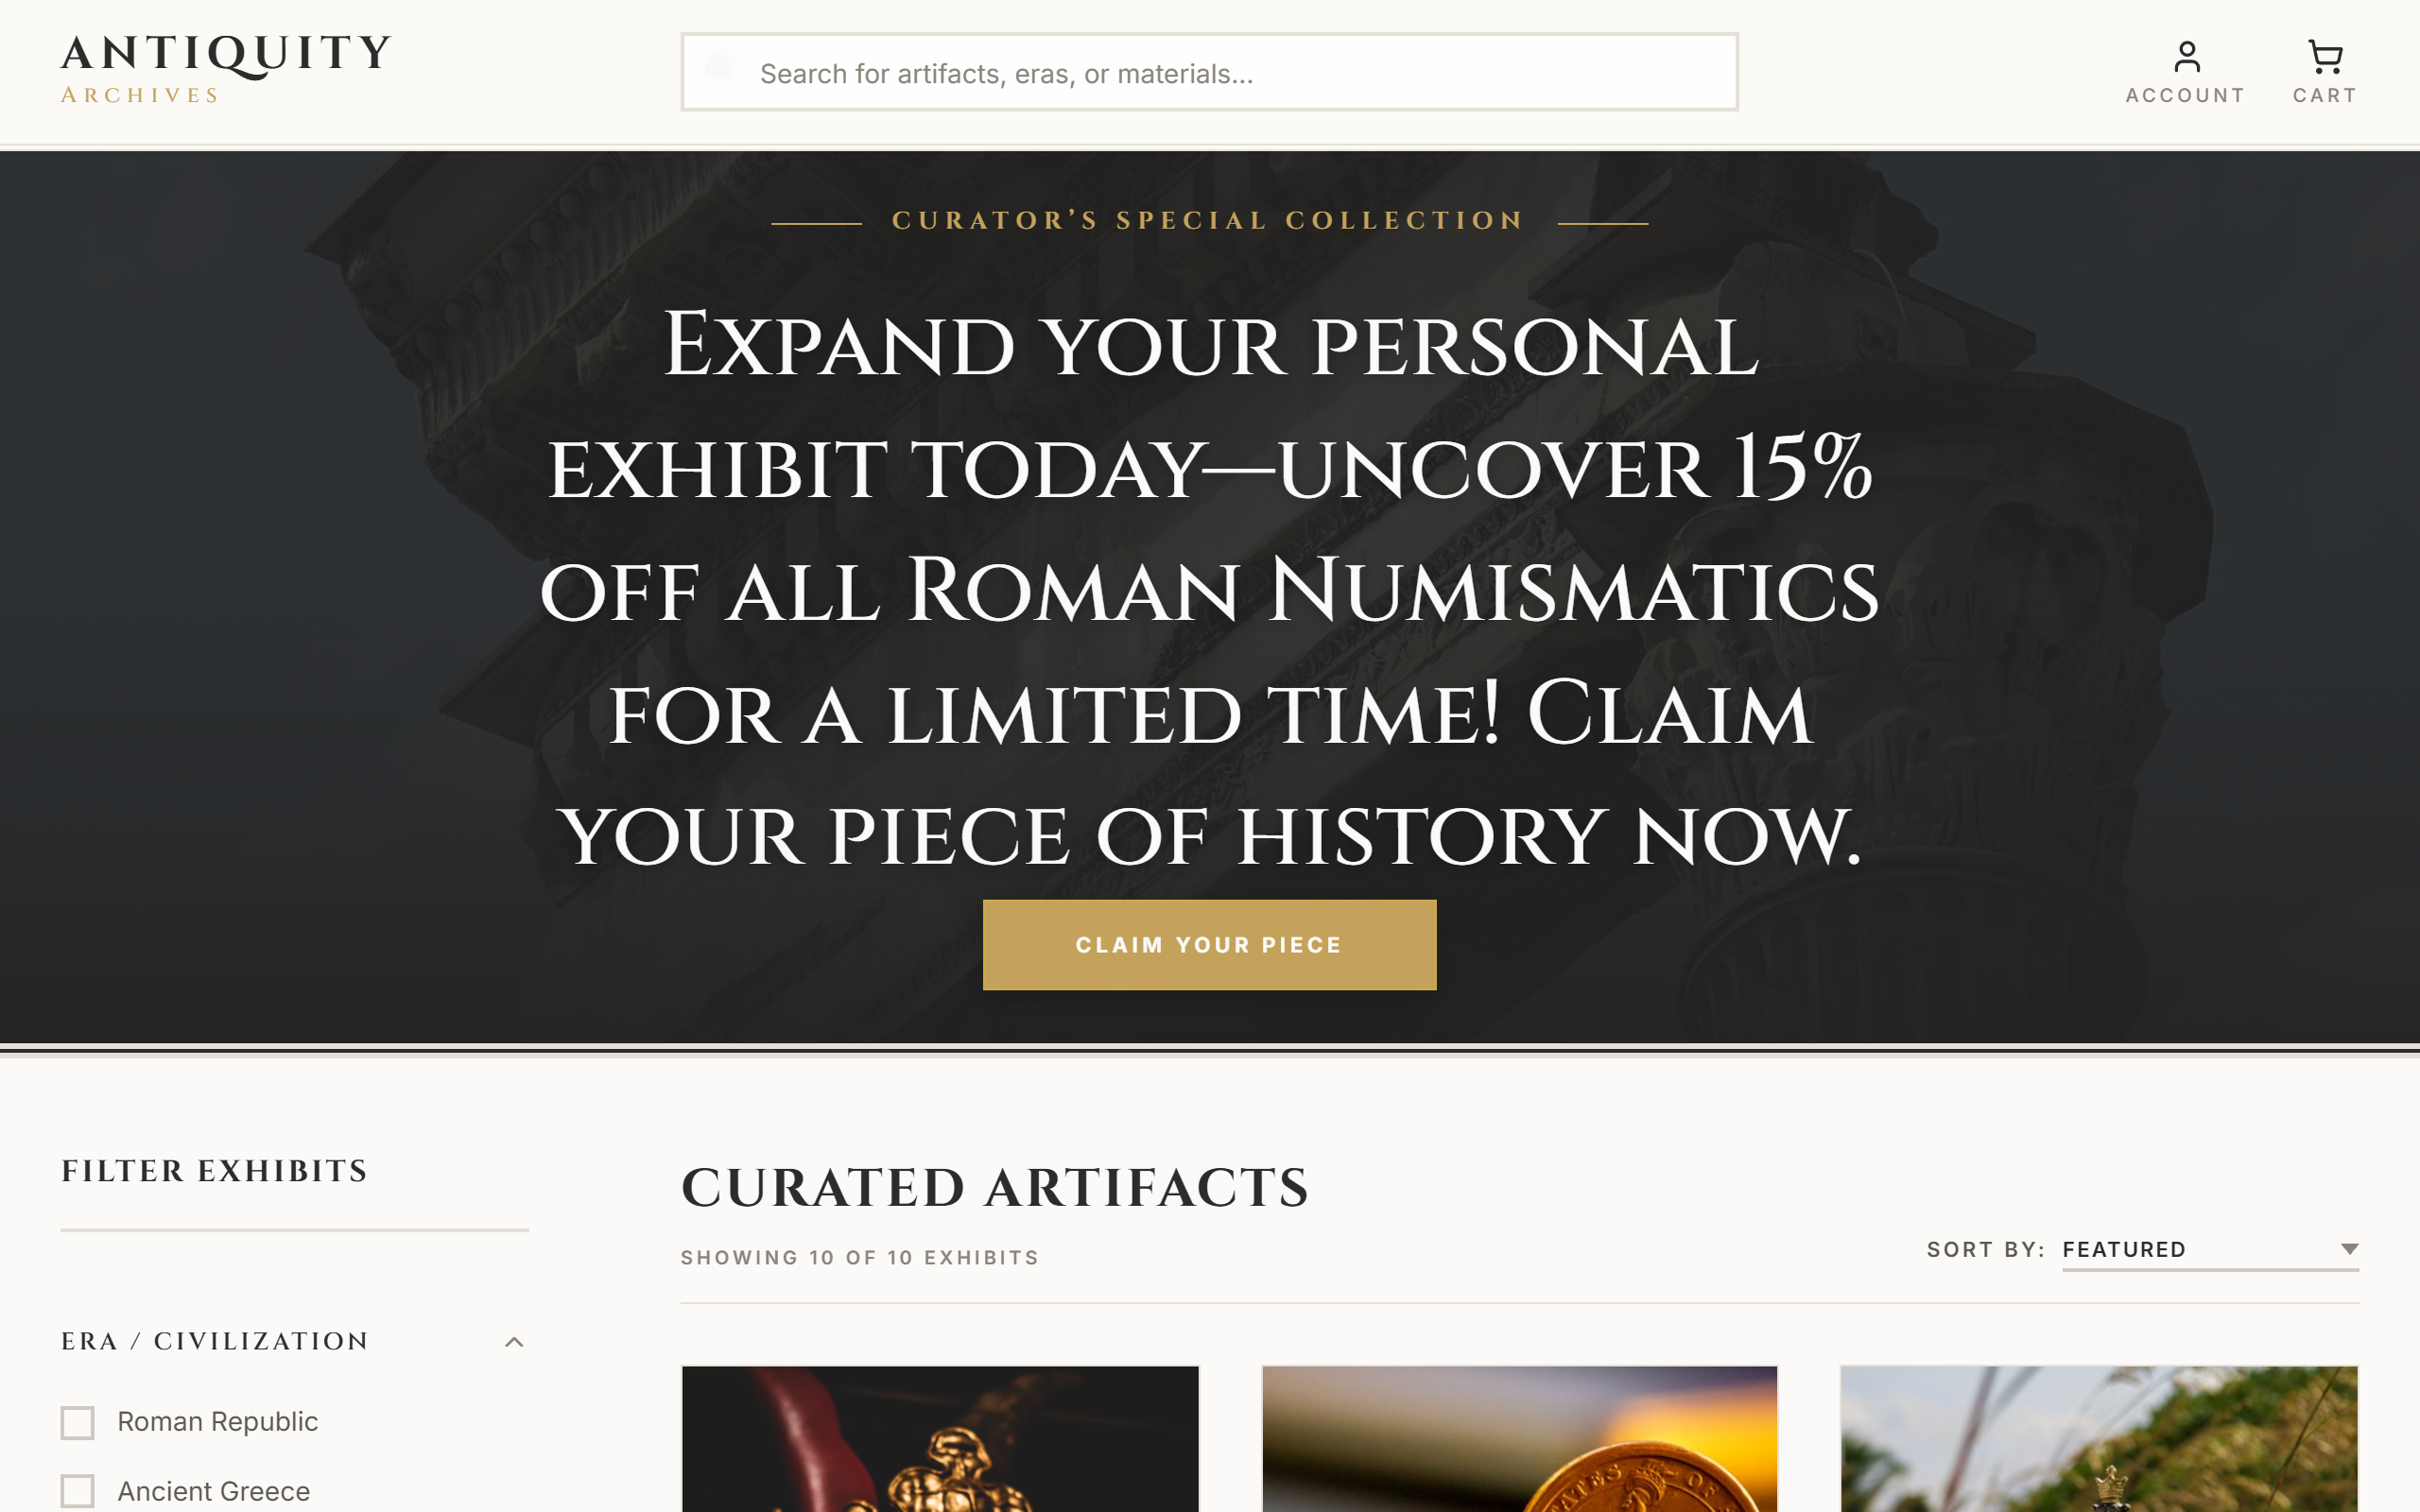
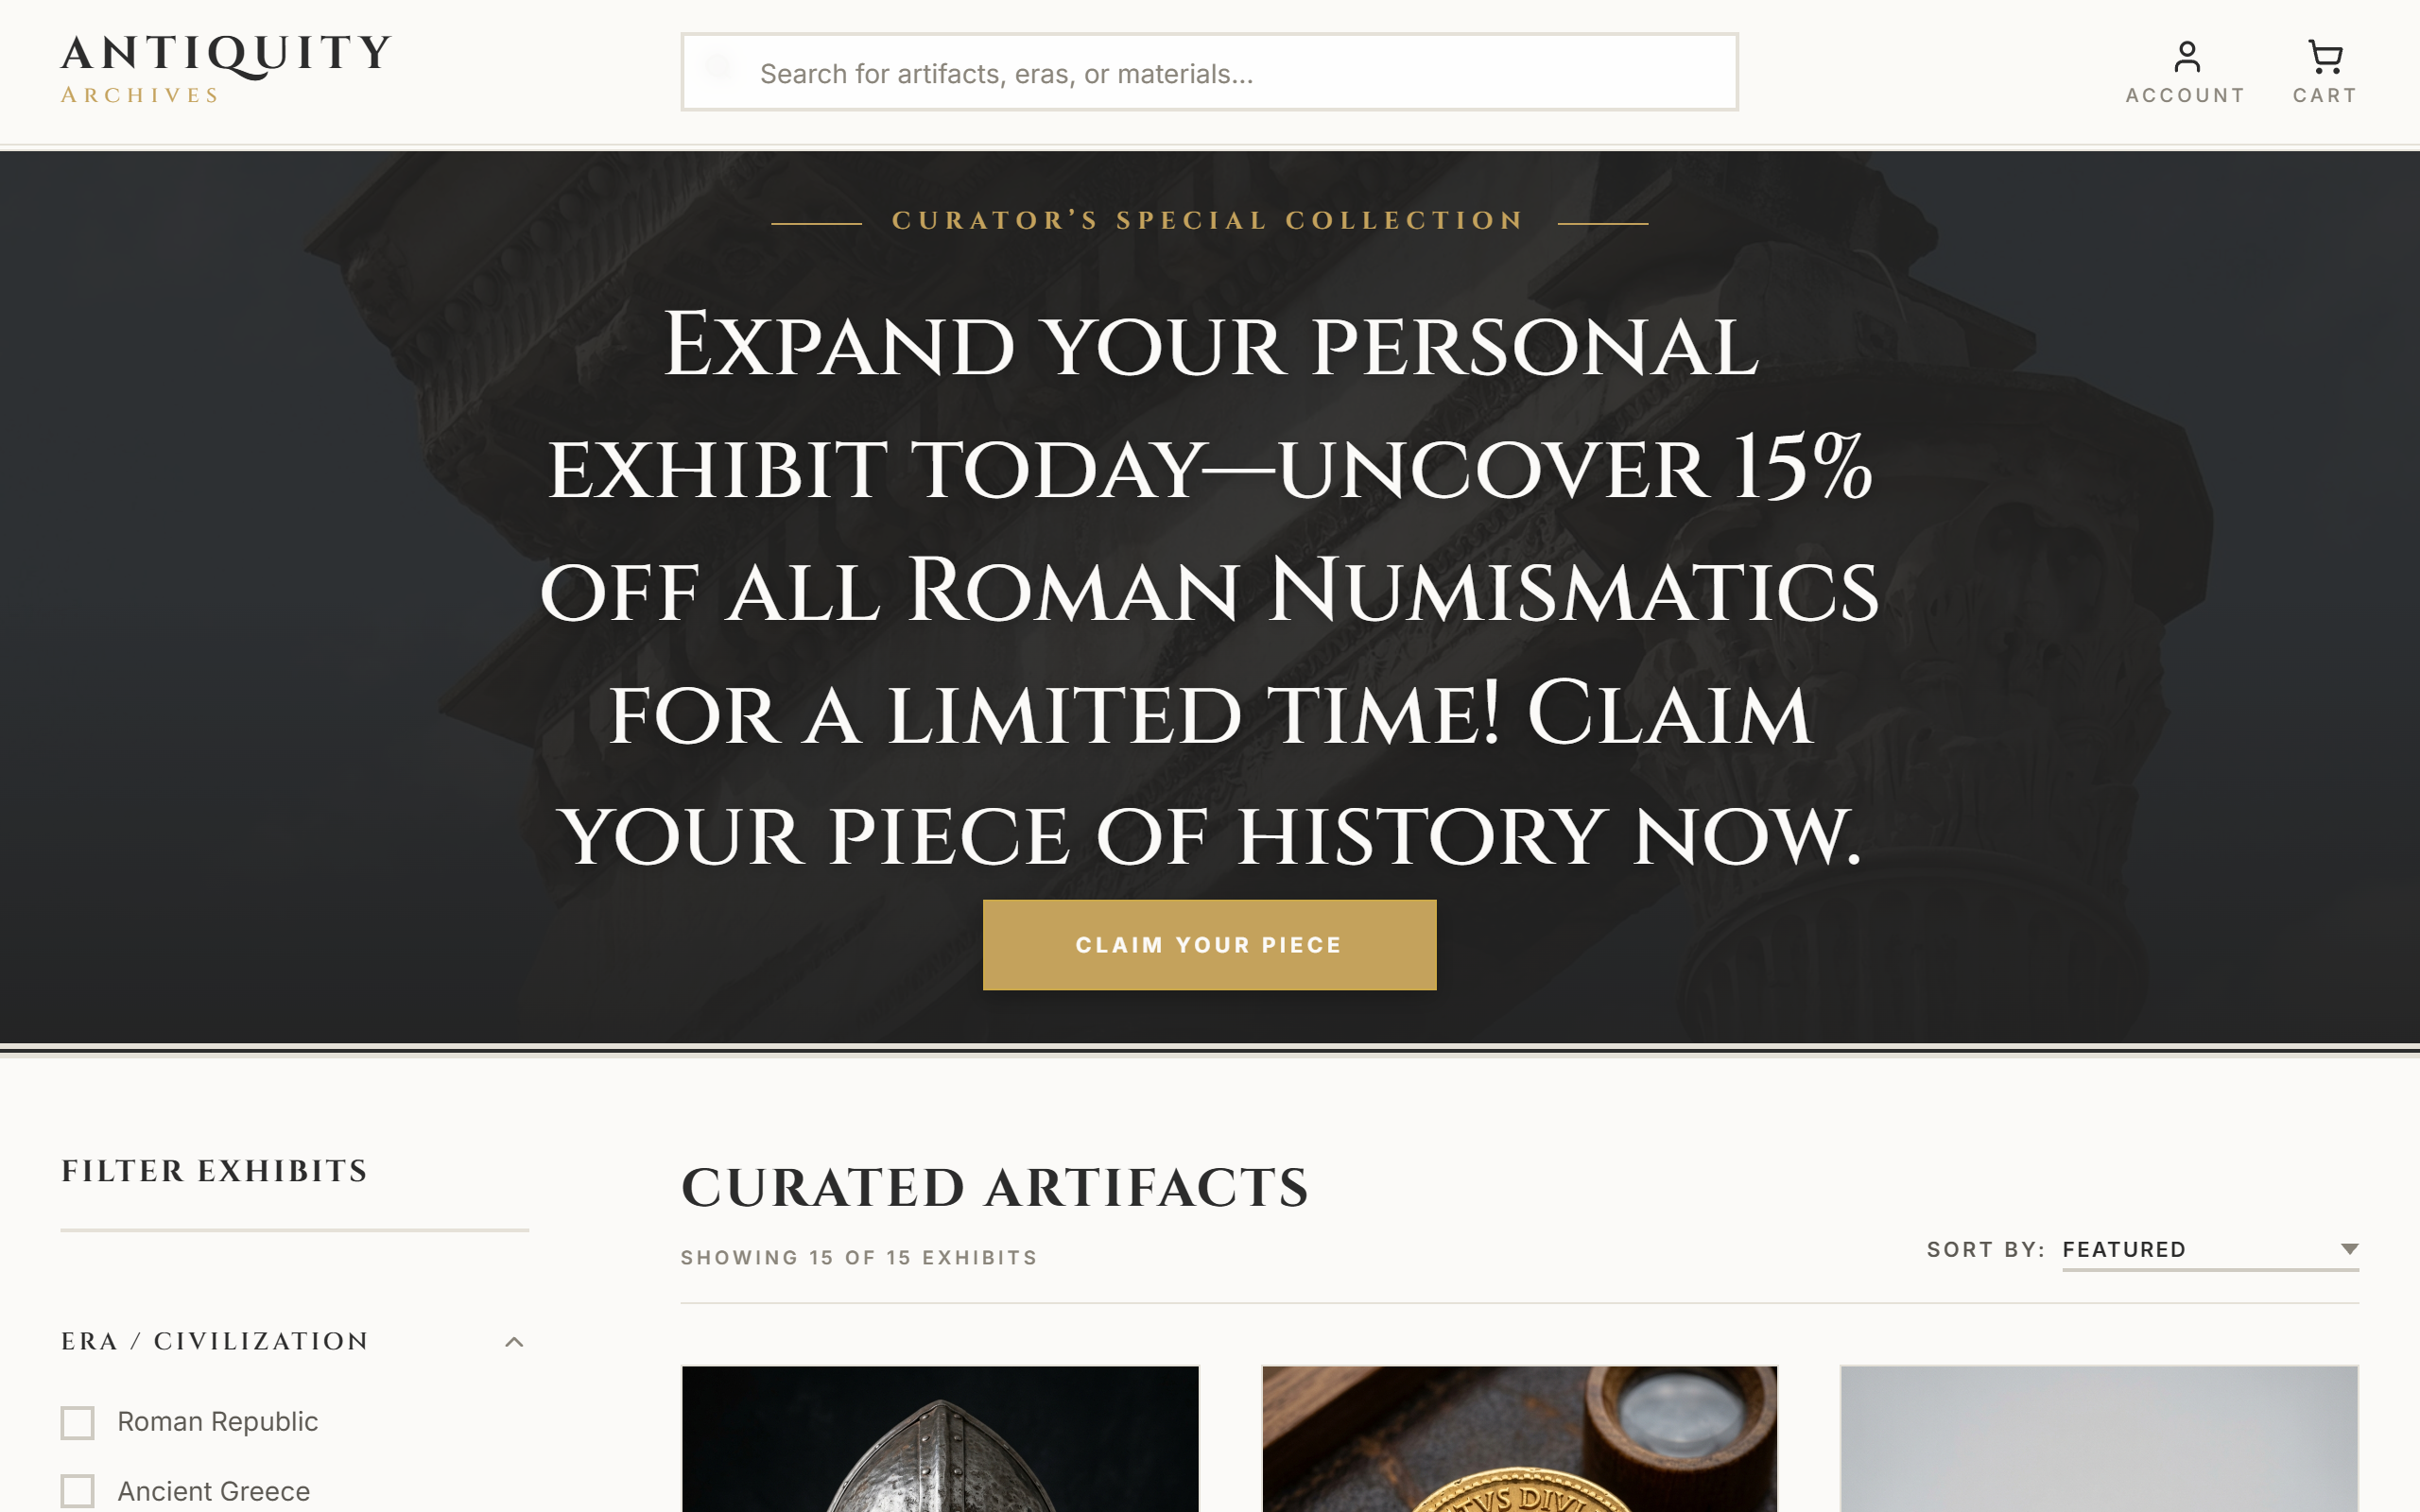
made images local

Changed region(s): [[0.2812, 0.9062, 1.0, 1.0], [0.375, 0.8125, 0.4062, 0.8438]]

diff --git a/src/data/products.js b/src/data/products.js
@@ -6,8 +6,7 @@ export const products = [
       'Forged utilizing traditional 12th-century techniques, this replica Norman nasal helm features a 16-gauge steel construction and an authentic leather suspension liner.',
     price: '$285.00',
     numericPrice: 285,
-    imageUrl:
-      'https://images.unsplash.com/photo-1600081728723-c8aa2ee3236a?crop=entropy&cs=tinysrgb&fit=max&fm=jpg&q=80&w=600',
+    imageUrl: '/images/helm-01.png',
     era: 'Early Medieval Europe',
     category: 'Armor Replicas',
     material: 'High-Carbon Steel',
@@ -19,8 +18,7 @@ export const products = [
       'An exact 1:1 scale replica of the famous gold Aureus minted during the reign of Augustus, featuring exceptional detail in 24k gold plating over solid brass.',
     price: '$95.00',
     numericPrice: 95,
-    imageUrl:
-      'https://images.unsplash.com/photo-1624295329185-13a841e9a268?crop=entropy&cs=tinysrgb&fit=max&fm=jpg&q=80&w=600',
+    imageUrl: '/images/coin-01.png',
     era: 'Roman Republic',
     category: 'Numismatics',
     material: 'Bronze',
@@ -32,8 +30,7 @@ export const products = [
       'A beautifully balanced arming sword replicating 11th-century designs. Hand-forged high carbon steel blade with a leather-wrapped wooden grip.',
     price: '$450.00',
     numericPrice: 450,
-    imageUrl:
-      'https://images.unsplash.com/photo-1440711085503-89d8ec455791?crop=entropy&cs=tinysrgb&fit=max&fm=jpg&q=80&w=600',
+    imageUrl: '/images/sword-01.png',
     era: 'Early Medieval Europe',
     category: 'Weaponry',
     material: 'High-Carbon Steel',
@@ -45,10 +42,9 @@ export const products = [
       'Hand-painted terracotta amphora recreating the iconic black-figure technique of 6th-century BC Athens, depicting heroic mythological scenes.',
     price: '$320.00',
     numericPrice: 320,
-    imageUrl:
-      'https://images.unsplash.com/photo-1728245029370-a47e535921da?crop=entropy&cs=tinysrgb&fit=max&fm=jpg&q=80&w=600',
+    imageUrl: '/images/pottery-01.png',
     era: 'Ancient Greece',
-    category: 'Armor Replicas',
+    category: 'Artifacts',
     material: 'Bronze',
   },
   {
@@ -58,8 +54,7 @@ export const products = [
       'Crafted from solid bronze using traditional lost-wax casting methods, this heavy helm perfectly captures the intimidating visage of hoplite warriors.',
     price: '$895.00',
     numericPrice: 895,
-    imageUrl:
-      'https://images.unsplash.com/photo-1590672617986-51b27910db21?crop=entropy&cs=tinysrgb&fit=max&fm=jpg&q=80&w=600',
+    imageUrl: '/images/helm-02.png',
     era: 'Ancient Greece',
     category: 'Armor Replicas',
     material: 'Bronze',
@@ -71,8 +66,7 @@ export const products = [
       'A painstaking reproduction of a 14th-century devotional manuscript, hand-lettered on genuine vellum with gold leaf illuminations and rich mineral pigments.',
     price: '$1,250.00',
     numericPrice: 1250,
-    imageUrl:
-      'https://images.unsplash.com/photo-1524995997946-a1c2e315a42f?crop=entropy&cs=tinysrgb&fit=max&fm=jpg&q=80&w=600',
+    imageUrl: '/images/manuscript-01.png',
     era: 'Early Medieval Europe',
     category: 'Manuscripts & Texts',
     material: 'Vellum',
@@ -84,8 +78,7 @@ export const products = [
       'Museum-grade replica of the celebrated Elephant Denarius struck in 49 BC, cast in fine silver-plated bronze with an aged patina finish.',
     price: '$75.00',
     numericPrice: 75,
-    imageUrl:
-      'https://images.unsplash.com/photo-1567427018141-0584cfcbf1b8?crop=entropy&cs=tinysrgb&fit=max&fm=jpg&q=80&w=600',
+    imageUrl: '/images/coin-02.png',
     era: 'Roman Republic',
     category: 'Numismatics',
     material: 'Bronze',
@@ -97,8 +90,7 @@ export const products = [
       'An imposing full-size kite shield constructed from laminated hardwood, covered in hand-dyed leather and fitted with a forged iron boss and rim.',
     price: '$385.00',
     numericPrice: 385,
-    imageUrl:
-      'https://images.unsplash.com/photo-1562128753-be051c7c35da?crop=entropy&cs=tinysrgb&fit=max&fm=jpg&q=80&w=600',
+    imageUrl: '/images/shield-01.png',
     era: 'Early Medieval Europe',
     category: 'Armor Replicas',
     material: 'Leather',
@@ -110,29 +102,87 @@ export const products = [
       'A scholarly reproduction of a section of the Egyptian Book of the Dead, hand-painted with authentic mineral inks on genuine papyrus reed paper.',
     price: '$180.00',
     numericPrice: 180,
-    imageUrl:
-      'https://images.unsplash.com/photo-1618005182384-a83a8bd57fbe?crop=entropy&cs=tinysrgb&fit=max&fm=jpg&q=80&w=600',
-    era: 'Roman Republic',
+    imageUrl: '/images/scroll-01.png',
+    era: 'Ancient Egypt',
     category: 'Manuscripts & Texts',
     material: 'Vellum',
   },
   {
     id: 'dagger-01',
-    name: 'Greek Xiphos Short Sword',
+    name: 'Roman Gladius Mainz',
     description:
-      'A faithful reproduction of the leaf-shaped bronze xiphos carried by Greek hoplites, featuring a hand-cast blade and a bone-inlaid wooden grip.',
+      'A classic Roman short sword of the Mainz pattern, favored by legionaries. Features a wide, slightly waisted high-carbon steel blade and a detailed bone hilt.',
     price: '$340.00',
     numericPrice: 340,
-    imageUrl:
-      'https://images.unsplash.com/photo-1589656966895-2f33e7653819?crop=entropy&cs=tinysrgb&fit=max&fm=jpg&q=80&w=600',
-    era: 'Ancient Greece',
+    imageUrl: '/images/dagger-01.png',
+    era: 'Roman Republic',
     category: 'Weaponry',
-    material: 'Bronze',
+    material: 'High-Carbon Steel',
   },
+  {
+    id: 'book-01',
+    name: 'SPQR: A History of Ancient Rome',
+    description:
+      'Mary Beard’s sweeping, masterful history of Rome. This academic edition provides a fresh, scholarly perspective on how Rome grew from an insignificant village to a dominant global empire.',
+    price: '$35.00',
+    numericPrice: 35,
+    imageUrl: '/images/book-01.png',
+    era: 'Roman Republic',
+    category: 'Academic Books',
+    material: 'Paper',
+  },
+  {
+    id: 'book-02',
+    name: 'The Decline and Fall of the Roman Empire',
+    description:
+      'Edward Gibbon’s monumental historical work. A beautifully bound, academic-grade multi-volume set perfect for any history student or researcher.',
+    price: '$120.00',
+    numericPrice: 120,
+    imageUrl: '/images/book-02.png',
+    era: 'Roman Republic',
+    category: 'Academic Books',
+    material: 'Paper',
+  },
+  {
+    id: 'jar-01',
+    name: 'Canopic Jar of Neskhons',
+    description:
+      'A highly accurate replica of an Ancient Egyptian canopic jar. Originally used to store the organs of the deceased during the mummification process.',
+    price: '$150.00',
+    numericPrice: 150,
+    imageUrl: '/images/jar-01.png',
+    era: 'Ancient Egypt',
+    category: 'Artifacts',
+    material: 'Ceramic',
+  },
+  {
+    id: 'astrolabe-01',
+    name: 'Renaissance Persian Astrolabe',
+    description:
+      'A stunning brass reproduction of an 18th-century Persian astrolabe, showcasing the incredible advancements in astronomical instrumentation during the Renaissance period.',
+    price: '$420.00',
+    numericPrice: 420,
+    imageUrl: '/images/astrolabe-01.png',
+    era: 'Renaissance',
+    category: 'Instruments',
+    material: 'Brass',
+  },
+  {
+    id: 'book-03',
+    name: 'Oxford Illustrated History of Medieval Europe',
+    description:
+      'Edited by George Holmes, this heavily illustrated volume brings the Middle Ages to life. A definitive text utilized in university programs worldwide.',
+    price: '$45.00',
+    numericPrice: 45,
+    imageUrl: '/images/book-03.png',
+    era: 'Early Medieval Europe',
+    category: 'Academic Books',
+    material: 'Paper',
+  }
 ];
 
 export const filterOptions = {
-  era: ['Roman Republic', 'Ancient Greece', 'Early Medieval Europe'],
-  category: ['Manuscripts & Texts', 'Armor Replicas', 'Numismatics', 'Weaponry'],
-  material: ['Bronze', 'Leather', 'Vellum', 'High-Carbon Steel'],
+  era: ['Roman Republic', 'Ancient Greece', 'Early Medieval Europe', 'Renaissance', 'Ancient Egypt'],
+  category: ['Academic Books', 'Armor Replicas', 'Artifacts', 'Instruments', 'Manuscripts & Texts', 'Numismatics', 'Weaponry'],
+  material: ['Brass', 'Bronze', 'Ceramic', 'High-Carbon Steel', 'Leather', 'Paper', 'Vellum'],
 };

diff --git a/download_images.js b/download_images.js
@@ -1,0 +1,77 @@
+import fs from 'fs';
+import path from 'path';
+
+const products = [
+  { id: 'helm-01', file: 'Nasal_helmet_from_Olmütz.jpg' },
+  { id: 'coin-01', file: 'Aureus_Augustus_Lyon_RIC_166a.jpg' },
+  { id: 'sword-01', file: 'Sword_(12th_century).jpg' },
+  { id: 'pottery-01', file: 'Attic_Black-Figure_Amphora_-_Herakles_and_the_Nemean_Lion_-_Walters_4815.jpg' },
+  { id: 'helm-02', file: 'Corinthian_helmet_Denda_Staatliche_Antikensammlungen_4330.jpg' },
+  { id: 'manuscript-01', file: 'Book_of_Hours,_France,_15th_Century.jpg' },
+  { id: 'coin-02', file: 'Denarius_Julius_Caesar.jpg' },
+  { id: 'shield-01', file: 'Kiteshield.jpg' },
+  { id: 'scroll-01', file: 'Papyrus_of_Ani.jpg' },
+  { id: 'dagger-01', file: 'Gladius_Mainz_RGZM.jpg' },
+  { id: 'book-01', file: 'SPQR_A_History_of_Ancient_Rome_cover.jpg' },
+  { id: 'book-02', file: 'The_Decline_and_Fall_of_the_Roman_Empire_-_Title_Page.jpg' },
+  { id: 'jar-01', file: 'Canopic_jars_of_Neskhons.jpg' },
+  { id: 'astrolabe-01', file: 'Astrolabe-Persian-18C.jpg' },
+  { id: 'book-03', file: 'Medieval_University.jpg' }
+];
+
+const imgDir = path.join(process.cwd(), 'public', 'images');
+if (!fs.existsSync(imgDir)) {
+  fs.mkdirSync(imgDir, { recursive: true });
+}
+
+async function getImageUrl(filename) {
+  // First try commons
+  let res = await fetch(`https://commons.wikimedia.org/w/api.php?action=query&titles=File:${encodeURIComponent(filename)}&prop=imageinfo&iiprop=url&format=json`);
+  let data = await res.json();
+  let pages = data.query.pages;
+  let pageId = Object.keys(pages)[0];
+  
+  if (pageId !== '-1' && pages[pageId].imageinfo) {
+    return pages[pageId].imageinfo[0].url;
+  }
+
+  // Fallback to en.wikipedia
+  res = await fetch(`https://en.wikipedia.org/w/api.php?action=query&titles=File:${encodeURIComponent(filename)}&prop=imageinfo&iiprop=url&format=json`);
+  data = await res.json();
+  pages = data.query.pages;
+  pageId = Object.keys(pages)[0];
+  
+  if (pageId !== '-1' && pages[pageId].imageinfo) {
+    return pages[pageId].imageinfo[0].url;
+  }
+  return null;
+}
+
+async function download(url, dest) {
+  const response = await fetch(url, { headers: { 'User-Agent': 'HistoricalReplicaApp/1.0 ([email redacted])' } });
+  if (!response.ok) throw new Error(`unexpected response ${response.statusText}`);
+  const arrayBuffer = await response.arrayBuffer();
+  const buffer = Buffer.from(arrayBuffer);
+  fs.writeFileSync(dest, buffer);
+  console.log('Downloaded', dest);
+}
+
+async function run() {
+  for (const p of products) {
+    const dest = path.join(imgDir, `${p.id}.jpg`);
+    try {
+      console.log(`Resolving URL for ${p.file}...`);
+      const url = await getImageUrl(p.file);
+      if (url) {
+        console.log(`Downloading ${url}...`);
+        await download(url, dest);
+      } else {
+        console.error(`Could not resolve URL for ${p.file}`);
+      }
+    } catch(e) {
+      console.error(`Failed to download ${p.id}:`, e.message);
+    }
+  }
+}
+
+run();